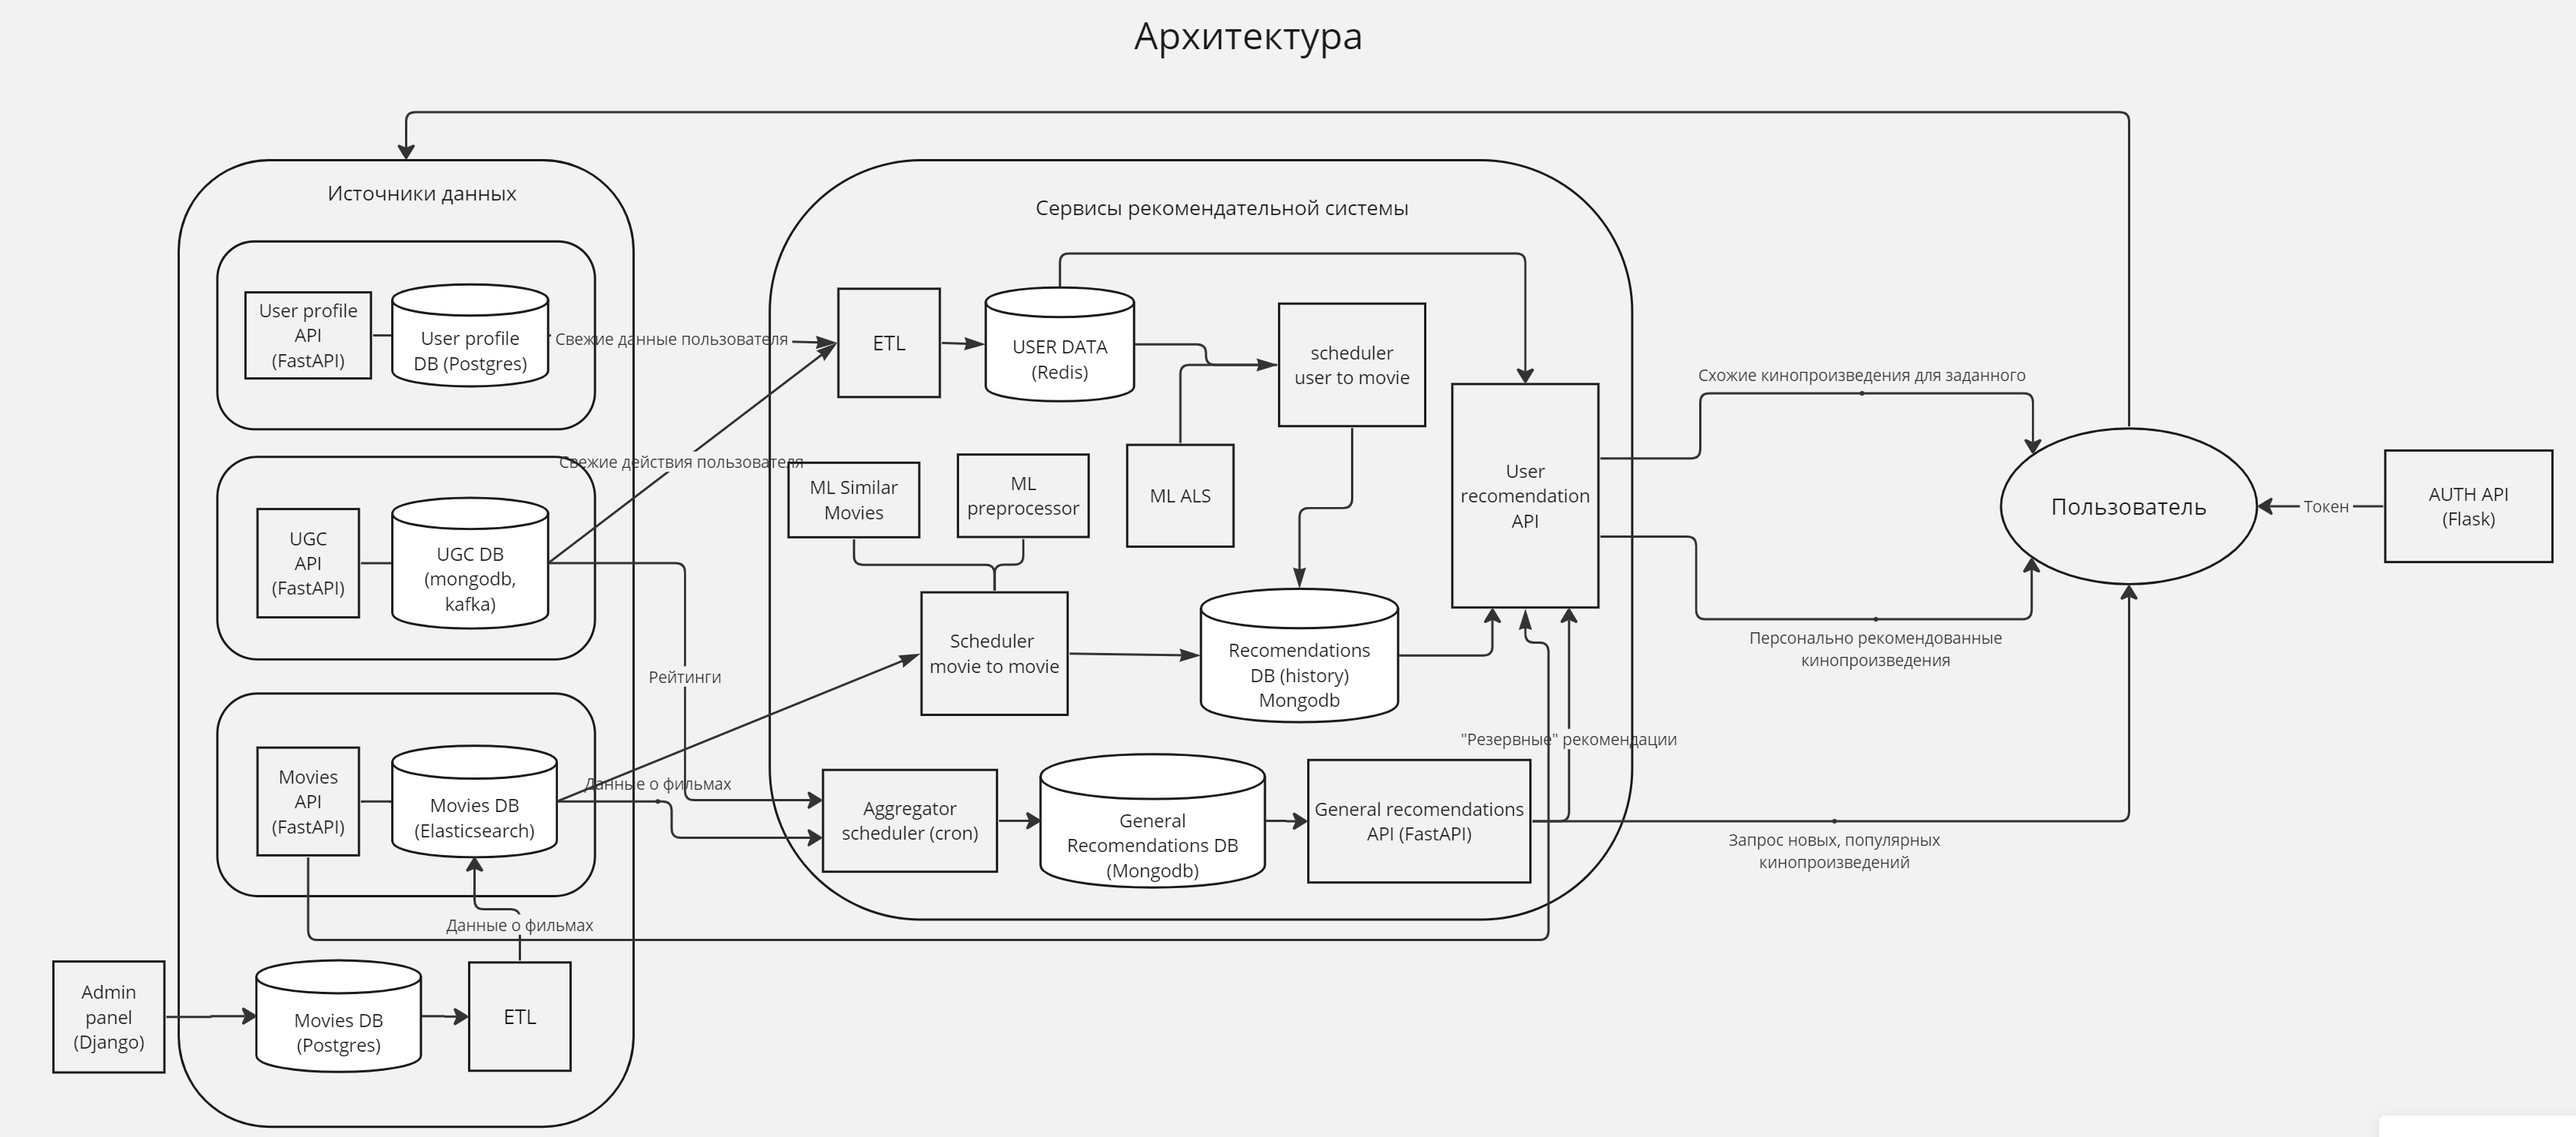
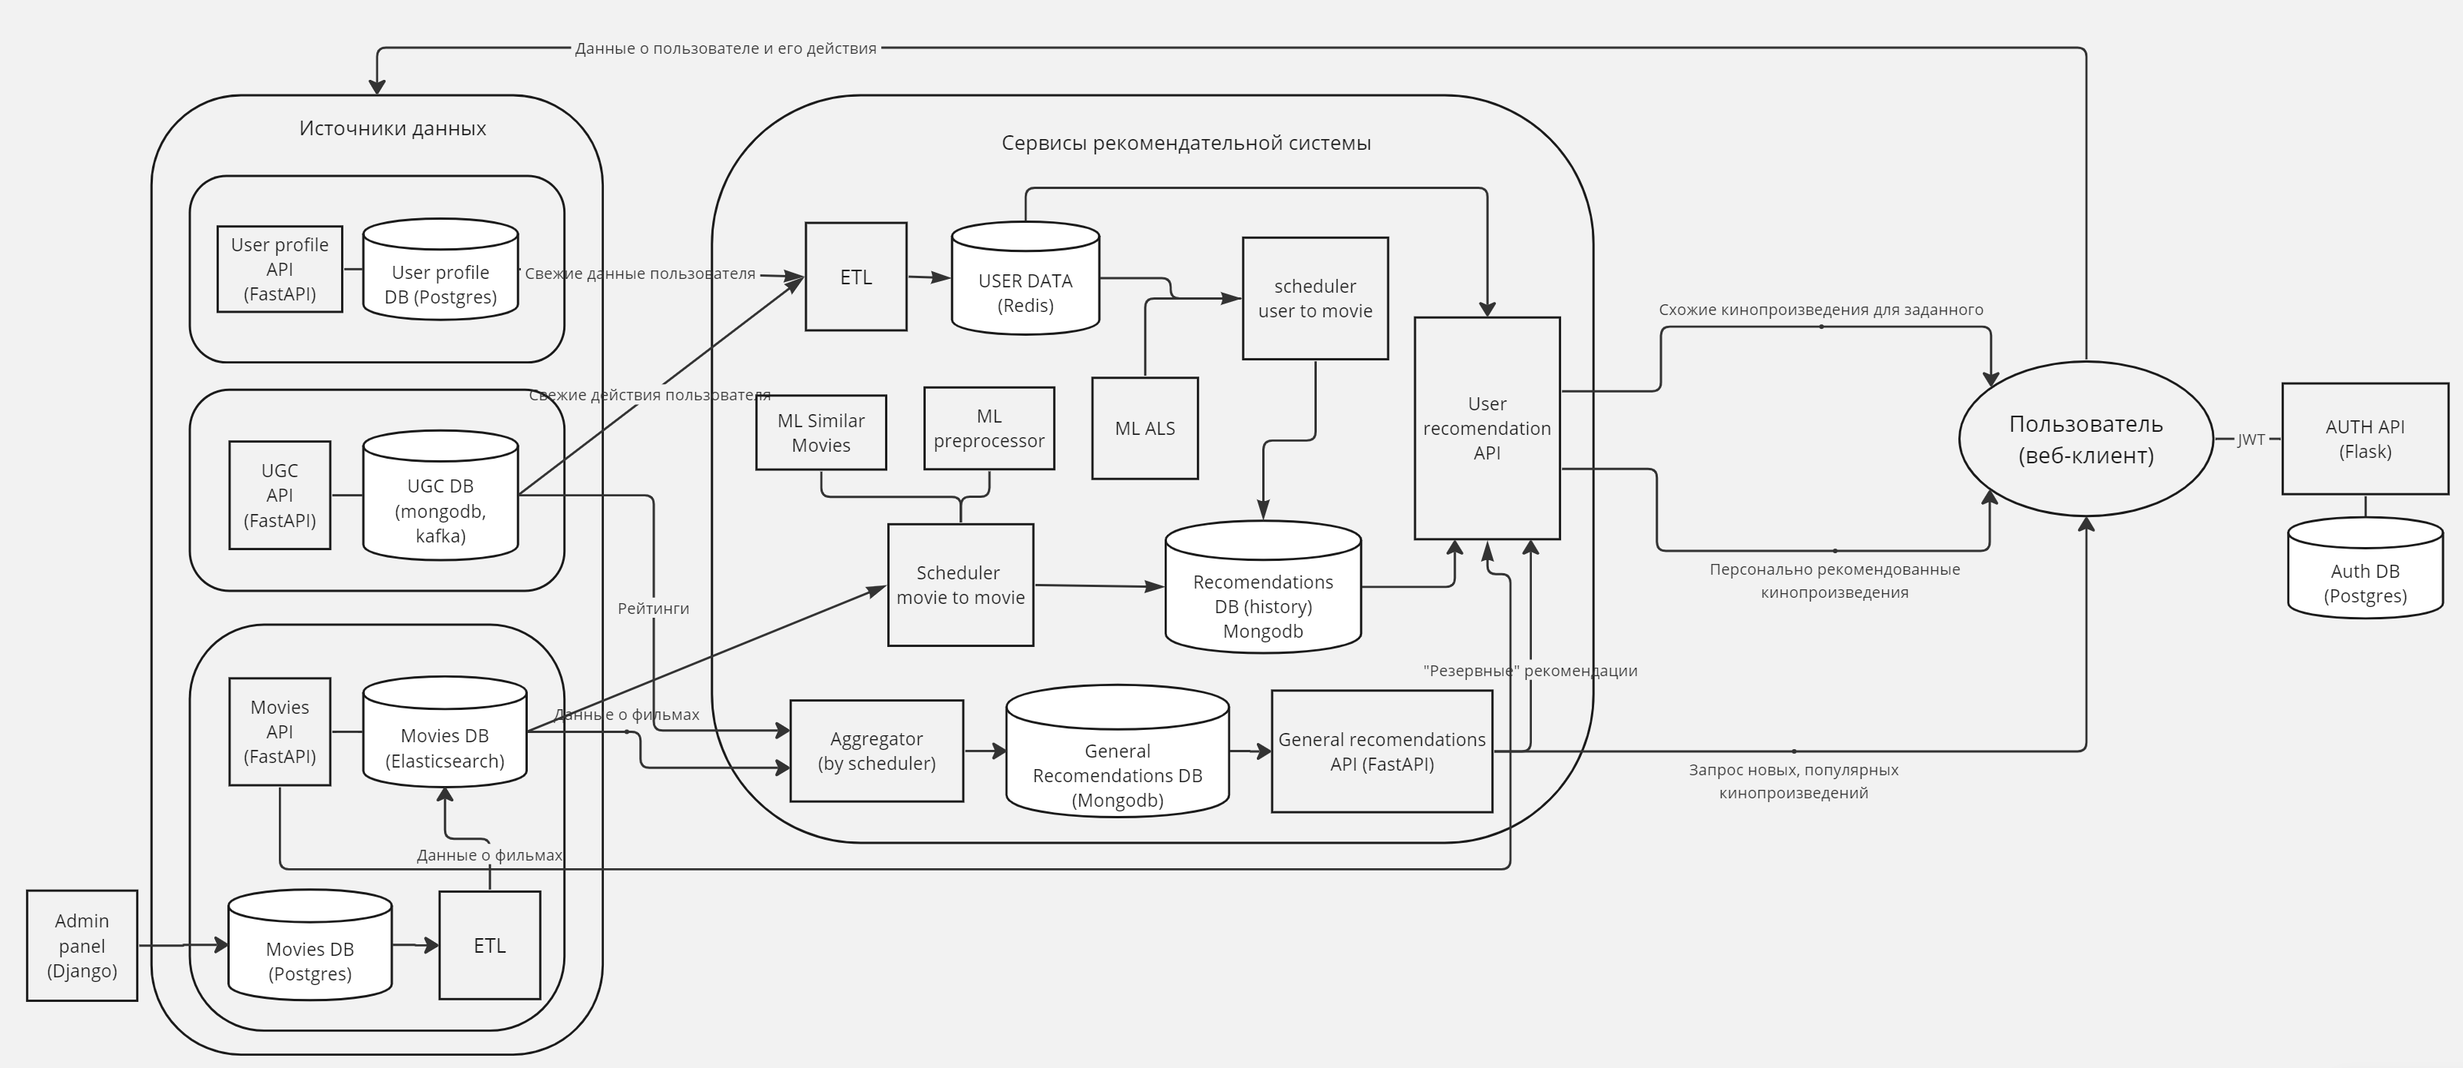
Update arch schema

diff --git a/README.md b/README.md
@@ -17,8 +17,7 @@ https://github.com/krvlr/graduate_work
 - Рекомендовать фильмы исходя из указанных пользователем предпочтений - жанров и интересов.
 - Рекомендовать популярные фильмы, часто просматриваемые, с хорошей оценкой/отзывами, новые. 
 - `Item/content-based` рекомендации. Рекомендовать фильмы близкие для просмотренных. 
-- `User-based` рекомендации. Рекомендовать фильмы, которые могут понравиться исходя из истории реакций и просмотров пользователя, а также опираясь на данные "близких" пользователей. В случае отсутствия действий пользователя (холодный старт), выводить рекомендации из п. 1-2. 
-- Предлагать недосмотренные фильмы.
+- `User-based` рекомендации. Рекомендовать фильмы, которые могут понравиться исходя из истории реакций и просмотров пользователя, а также опираясь на данные "близких" пользователей. В случае отсутствия действий пользователя (холодный старт), выводить рекомендации из п. 1-2.
 
 **Нефункциональные требования**:  
 
@@ -30,4 +29,4 @@ https://github.com/krvlr/graduate_work
 **Масштабирование**: сервис должен работать асинхронно и быть легко масштабируемым, с возможностью развертывания на множестве узлов.  
 **Безопасность**: не должно быть уязвимостей по утечке персональных данных пользователей.
 
-![](arch/recommendation_service.png) # TODO обновить (возможно перенести в PlantUML)
+![](arch/recommendation_service.png)
